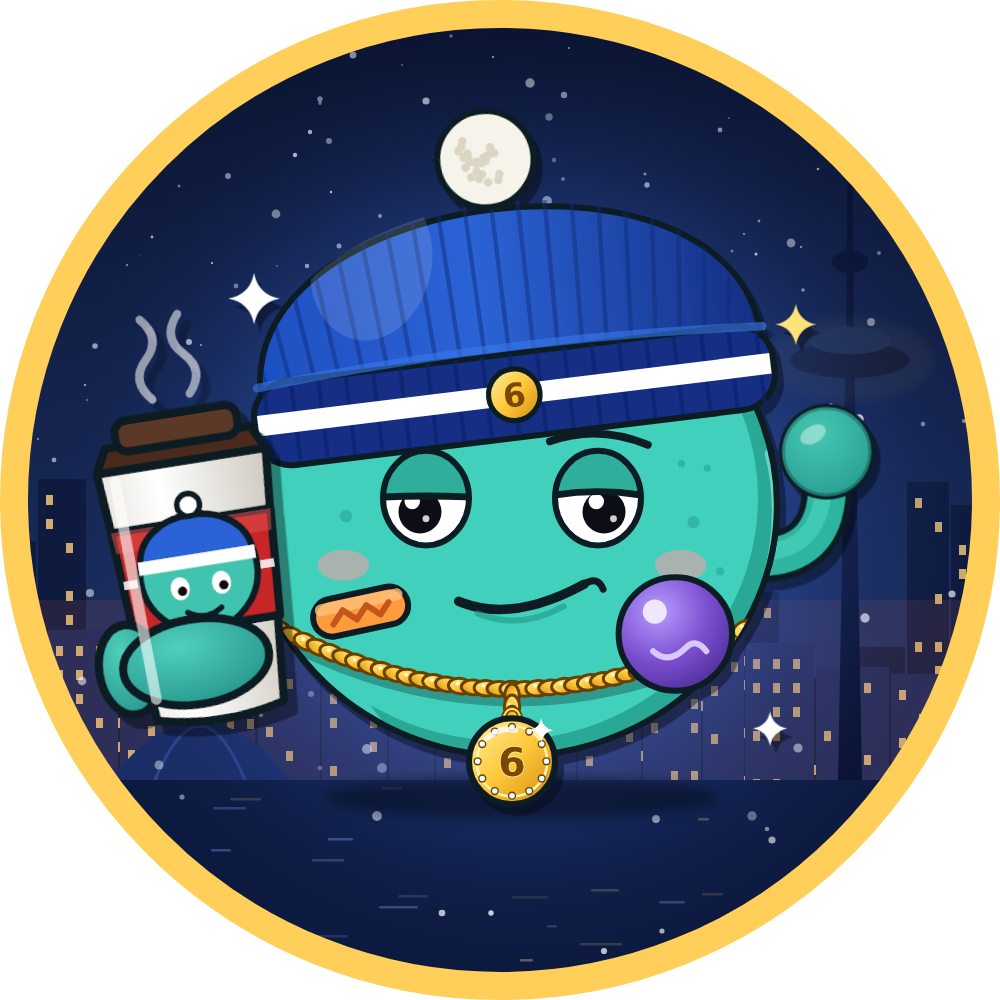
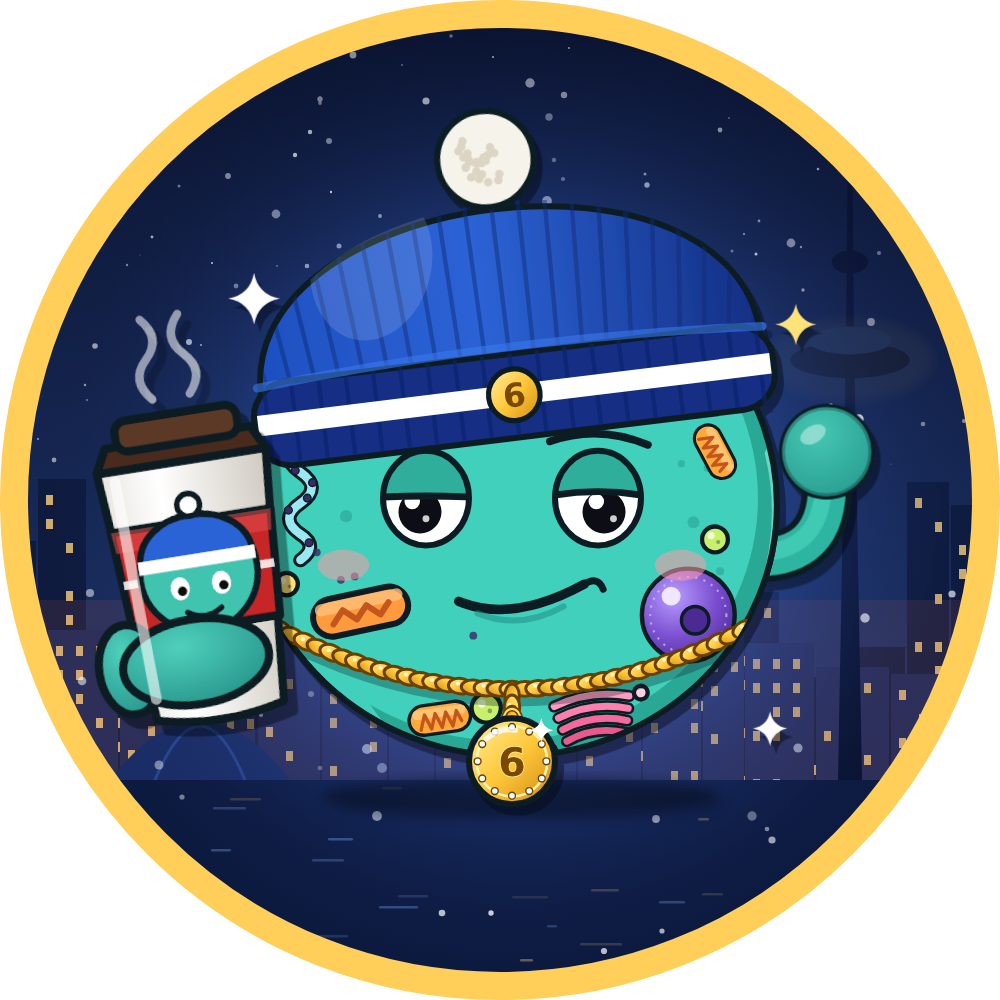
Rebrand v2.5: organelles clipped inside the cell, chain layered on top
Claude-Session: https://claude.ai/code/session_01YLZ2csSozvptdvtP7YVaK8

Changed region(s): [[0.403, 0.527, 0.744, 0.744], [0.279, 0.465, 0.341, 0.62], [0.682, 0.403, 0.744, 0.496]]

diff --git a/studio/branding/rebrand-v2/cyto2d.js b/studio/branding/rebrand-v2/cyto2d.js
@@ -110,6 +110,7 @@ function cyto(fit='none'){
   <circle cx="-218" cy="-95" r="13" fill="#fff" opacity=".4"/>
   <path d="M300 -60 Q330 60 250 200" fill="none" stroke="#9dfbe9" stroke-width="12" stroke-linecap="round" opacity=".55"/>
   ${spots}
+  ${organelles()}
  </g>
  ${garment(fit)}
  <ellipse rx="308" ry="292" fill="none" ${O}/>
@@ -118,9 +119,8 @@ function cyto(fit='none'){
  <path d="M-62 112 Q0 138 84 92" fill="none" stroke="#0a1f24" stroke-width="11" stroke-linecap="round"/>
  <path d="M84 92 Q100 82 106 98" fill="none" stroke="#0a1f24" stroke-width="8" stroke-linecap="round"/>
  <path d="M-40 126 Q10 146 60 118" fill="none" stroke="#1f8f86" stroke-width="7" stroke-linecap="round" opacity=".55"/>
- ${chain()}
  <g transform="translate(-176,124) rotate(-12)"><rect x="-56" y="-22" width="112" height="44" rx="22" fill="#ff9b3d" ${O}/><rect x="-52" y="-18" width="104" height="14" rx="7" fill="#ffc07a" opacity=".8"/><path d="M-34 8 L-20 -6 L-6 8 L8 -6 L22 8 L34 -4" fill="none" stroke="#c4541a" stroke-width="7" stroke-linecap="round" stroke-linejoin="round"/></g>
- <g transform="translate(190,150)"><circle r="66" fill="url(#nuc)" ${O}/><circle cx="-24" cy="-26" r="14" fill="#efe6ff"/><path d="M-26 20 Q-8 36 12 16 Q24 4 36 20" fill="none" stroke="#d8c8ff" stroke-width="7" stroke-linecap="round"/></g>
+ ${chain()}
  <g transform="rotate(-7 0 -150)">
   <path d="M-292 -150 C-312 -410 312 -410 292 -150Z" fill="url(#hat)" ${O}/>
   <g clip-path="url(#hatclip)">${ribs}<ellipse cx="-150" cy="-300" rx="70" ry="90" fill="#fff" opacity=".13" transform="rotate(20 -150 -290)"/></g>
@@ -133,6 +133,26 @@ function cyto(fit='none'){
  </g>
  ${sparkle(-300,-240,30)}${sparkle(330,-210,24,'#ffe27a')}${sparkle(300,260,20)}${sparkle(-380,-60,18,'#ffe27a')}
  </g>${cup()}`}
+
+function organelles(){ // all drawn inside the cell body clip; nothing can extend outside the cell
+ const T='stroke="#0a1f24" stroke-width="5" stroke-linejoin="round" stroke-linecap="round"';
+ let o='';
+ // nucleus (with nucleolus + envelope)
+ o+=`<g transform="translate(205,128)"><circle r="54" fill="url(#nuc)" ${T}/><circle r="54" fill="none" stroke="#d8c8ff" stroke-width="3" stroke-dasharray="3 9" opacity=".7" transform="scale(.82)"/><circle cx="8" cy="6" r="16" fill="#4b2b94" stroke="#0a1f24" stroke-width="4"/><circle cx="-20" cy="-22" r="11" fill="#efe6ff"/></g>`;
+ // mitochondrion (bean + cristae)
+ const mito=(x,y,r,sc=1)=>`<g transform="translate(${x},${y}) rotate(${r}) scale(${sc})"><rect x="-46" y="-22" width="92" height="44" rx="22" fill="#ffa93a" ${T}/><rect x="-40" y="-16" width="80" height="14" rx="7" fill="#ffd089" opacity=".7"/><path d="M-30 14 L-22 -8 L-14 14 L-6 -8 L2 14 L10 -8 L18 14 L26 -8 L32 8" fill="none" stroke="#c4541a" stroke-width="5" stroke-linecap="round" stroke-linejoin="round"/></g>`;
+ o+=mito(-84,248,-8,.78)+mito(236,-62,62,.72);
+ // golgi stack
+ o+=`<g transform="translate(96,252) rotate(-8)">${[0,1,2,3].map(i=>`<path d="M${-44+i*3} ${-24+i*14} Q0 ${-38+i*14} ${44-i*3} ${-24+i*14}" fill="none" stroke="#0a1f24" stroke-width="14" stroke-linecap="round"/><path d="M${-44+i*3} ${-24+i*14} Q0 ${-38+i*14} ${44-i*3} ${-24+i*14}" fill="none" stroke="${['#ff9ac0','#ff7fae','#f56a9d','#e85a8e'][i]}" stroke-width="8" stroke-linecap="round"/>`).join('')}<circle cx="58" cy="-26" r="8" fill="#ffd0e2" ${T}/><circle cx="-56" cy="26" r="7" fill="#ffd0e2" ${T}/></g>`;
+ // rough ER: wavy folded tube with ribosome dots
+ o+=`<g transform="translate(-246,-6)"><path d="M0 -70 Q-26 -50 0 -32 Q26 -14 0 4 Q-26 22 0 40 Q22 54 0 70" fill="none" stroke="#0a1f24" stroke-width="17" stroke-linecap="round"/><path d="M0 -70 Q-26 -50 0 -32 Q26 -14 0 4 Q-26 22 0 40 Q22 54 0 70" fill="none" stroke="#9be7f2" stroke-width="10" stroke-linecap="round"/>${[[-14,-52],[14,-20],[-14,12],[10,50],[-6,-34],[8,-2]].map(p=>`<circle cx="${p[0]}" cy="${p[1]}" r="4.5" fill="#3b2a66" stroke="#0a1f24" stroke-width="1.5"/>`).join('')}</g>`;
+ // lysosomes / vesicles
+ const lys=(x,y,r,c)=>`<g transform="translate(${x},${y})"><circle r="${r}" fill="${c}" ${T}/><circle cx="${-r*.3}" cy="${-r*.3}" r="${r*.28}" fill="#fff" opacity=".7"/><circle cx="${r*.25}" cy="${r*.2}" r="${r*.16}" fill="#0a1f24" opacity=".35"/></g>`;
+ o+=lys(-30,236,17,'#c8f06a')+lys(236,40,15,'#c8f06a')+lys(-262,92,13,'#ffe27a')+lys(-212,-92,12,'#c8f06a');
+ // ribosome dots
+ let r1=9;const rr=()=>(r1=(r1*16807)%2147483647)/2147483647;
+ for(let i=0;i<14;i++){const a=rr()*6.28,rad=60+rr()*220,x=Math.cos(a)*rad,y=Math.sin(a)*rad*0.9+30; if(y<-60||Math.abs(x)<150&&y>-70&&y<150) continue; o+=`<circle cx="${x.toFixed(0)}" cy="${y.toFixed(0)}" r="4.5" fill="#3b2a66" opacity=".8"/>`}
+ return o}
 function skyline(w,h,base,seed){let s=seed;const r=()=>(s=(s*16807)%2147483647)/2147483647;let o='';
  o+=`<rect width="${w}" height="${h}" fill="url(#sky)"/>`;
  for(let i=0;i<130;i++) o+=`<circle cx="${(r()*w).toFixed(0)}" cy="${(r()*base*0.7).toFixed(0)}" r="${(r()*2.2+.6).toFixed(1)}" fill="#fff" opacity="${(.3+r()*.6).toFixed(2)}"/>`;
